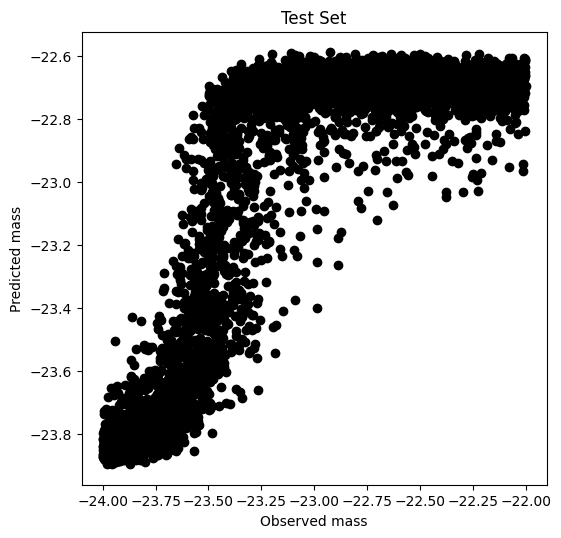
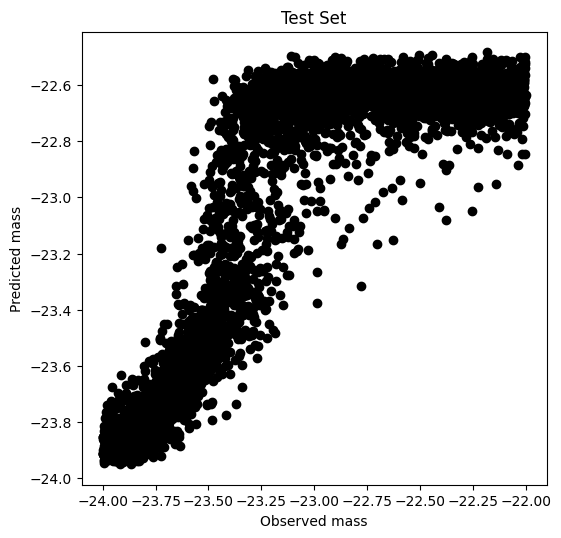
update

diff --git a/README.md b/README.md
@@ -6,20 +6,20 @@
 
 MAE on test set. Some result will be posted soon, I'm sorting them out.
 
-|           NN Architecture            | Model I |  Model II   |  Model III   | Epoch |
-| :----------------------------------: | :-----: | :---------: | :----------: | ----- |
-|  ResNet34 (pretrained on ImageNet)   | 0.2849  |   0.2162    |    0.1332    | 300   |
-|               Pure VIT               |         | 0.2741(8*8) | 0.2175 (8*8) | 300   |
-|                CNN-T                 |         |             |    0.1459    | 300   |
-| MobileNet V2 (pretrained on ImageNet |         |             |    0.1568    | 300   |
-|                 CVT                  |         |             |              |       |
+|           NN Architecture            |    Model I     |  Model II   |  Model III   | Epoch |
+| :----------------------------------: | :------------: | :---------: | :----------: | ----- |
+|  ResNet34 (pretrained on ImageNet)   |     0.2849     |   0.2162    |    0.1332    | 300   |
+|               Pure VIT               | 0.4420 (15*15) | 0.2437(8*8) | 0.2175 (8*8) | 300   |
+|                CNN-T                 |                |             |    0.1459    | 300   |
+| MobileNet V2 (pretrained on ImageNet |                |             |    0.1568    | 300   |
+|                 CVT                  |                |             |              |       |
 
 **Scatter plot on test set with ResNet34**
 
 | Arch   |                   Model I                    |                   Model II                    |                   Model IIII                   |
 | ------ | :------------------------------------------: | :-------------------------------------------: | :--------------------------------------------: |
 | ResNet | <img src="./imgs/model-I-resnet34-300.png"/> | <img src="./imgs/model-II-resnet34-300.png"/> | <img src="./imgs/model-III-resnet34-300.png"/> |
-| Vit    |                                              |                                               |                                                |
+| Vit    | <img src="./imgs/model-I-purevit-300.png"/>  | <img src="./imgs/model-II-purevit-300.png"/>  | <img src="./imgs/model-III-purevit-300.png"/>  |
 |        |                                              |                                               |                                                |
 
 **Model I**
